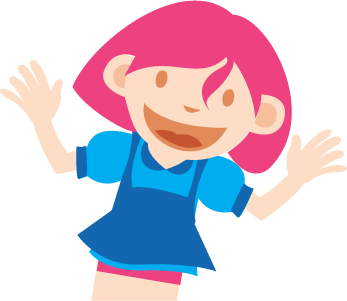
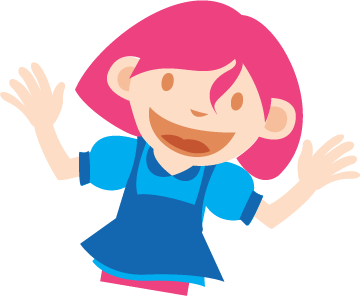
fix: removes overflow x, relative child containers

diff --git a/components/PageFooter.vue b/components/PageFooter.vue
@@ -1,37 +1,38 @@
 <template lang="pug">
-  b-container(fluid).footer-container
+  b-container(fluid)
     .child-container
       b-img.child(fluid src="~/assets/img/child-props/boy-red-shirt.svg")
-    b-row
-      b-col(md="6" sm="12")
-        div.contact
-          h4 Contact Us
-          ul
-            li
-              font-awesome-icon.mr-2.ml-2(:icon="['fas', 'phone-square']" size="2x" target="_blank")
-              h6.d-inline-block Phone: (303) 885-9848
-            li
-              font-awesome-icon.mr-2.ml-2(:icon="['fas', 'fax']" size="2x" target="_blank")
-              h6.d-inline-block Fax: (303) 200-7001
-            li
-              font-awesome-icon.mr-2.ml-2(:icon="['fas', 'at']" size="2x" target="_blank")
-              h6.d-inline-block Email: a.shimkus@peekabootherapy.com
-      b-col(md="6" sm="12")
-        div.footer-nav
-          ul
-            li
-              nuxt-link(to="/") Home
-            li
-              a(href="https://peekabootherapy.com/blog") Blog
-            li
-              router-link(to="/careers") Careers
-            li
-              router-link(to="/contact") Contact
-    b-row
-      b-col(md="4" offset-md="8")
-        h6 Logo and children by Jesey Nicholson
-        h6 Website by Elliot Braem
-    .subtext.text-center ©2018 Peek-a-boo Pediatric Therapy LLC, All Rights Reserved.
+    .footer-container
+      b-row
+        b-col(md="6" sm="12")
+          div.contact
+            h4 Contact Us
+            ul
+              li
+                font-awesome-icon.mr-2.ml-2(:icon="['fas', 'phone-square']" size="2x" target="_blank")
+                h6.d-inline-block Phone: (303) 885-9848
+              li
+                font-awesome-icon.mr-2.ml-2(:icon="['fas', 'fax']" size="2x" target="_blank")
+                h6.d-inline-block Fax: (303) 200-7001
+              li
+                font-awesome-icon.mr-2.ml-2(:icon="['fas', 'at']" size="2x" target="_blank")
+                h6.d-inline-block Email: a.shimkus@peekabootherapy.com
+        b-col(md="6" sm="12")
+          div.footer-nav
+            ul
+              li
+                nuxt-link(to="/") Home
+              li
+                a(href="https://peekabootherapy.com/blog") Blog
+              li
+                router-link(to="/careers") Careers
+              li
+                router-link(to="/contact") Contact
+      b-row
+        b-col(md="4" offset-md="8")
+          h6 Logo and children by Jesey Nicholson
+          h6 Website by Elliot Braem
+      .subtext.text-center ©2018 Peek-a-boo Pediatric Therapy LLC, All Rights Reserved.
 </template>
 
 <style lang="scss" scoped>
@@ -40,14 +41,17 @@ h4 {
   font-family: 'Marker-Felt';
 }
 
+.child-container {
+  position: relative;
+}
+
 .footer-container {
   background-color: #d6efff;
-  margin-top: 200px;
   padding-top: 20px;
 }
 
 .child {
-  top: -220px;
+  top: 50px;
   right: 0px;
   z-index: -10;
   transform: rotate(-20deg);

diff --git a/pages/Rates.vue b/pages/Rates.vue
@@ -20,15 +20,15 @@
 </template>
 
 <style lang="scss" scoped>
-.blue-box-container {
-  padding-top: 200px;
-}
-
 .child {
-  top: -200px;
+  top: 20px;
   left: 0px;
   z-index: -10;
   transform: rotate(20deg);
+}
+
+.child-container {
+  position: relative;
 }
 
 .btn-group-container {
@@ -51,32 +51,3 @@
   text-align: center;
 }
 </style>
-
-// .rates-child
-//   position: relative
-//   width: auto
-//   height: auto
-
-// .rates-child .child
-//   position: absolute
-//   max-height: none
-//   z-index: -10
-//   left: -100px
-//   transform: rotate(25deg)
-
-// // Small devices (landscape phones, 420px and up)
-// @media (min-width: 420px)
-//   .rates h2
-//     padding: 0
-
-//   .rates-child .helper-div
-//     padding-bottom: 180px
-//     width: auto
-
-//   .blue-box
-//     margin: auto
-
-// // Medium devices (tablets, 768px and up)
-// @media (min-width: 768px)
-//   .rates-child .helper-div
-//     padding-bottom: 0px;

diff --git a/pages/Services.vue b/pages/Services.vue
@@ -39,33 +39,17 @@ export default {
 .blue-box-container {
   position: relative;
   text-align: left;
-  padding-top: 200px;
   margin-bottom: 4rem;
+}
+
+.child-container {
+  position: relative;
 }
 
 .child {
   z-index: -10;
-  top: -200px;
+  top: 20px;
   right: 0;
   transform: rotate(-15deg);
-  // Devices smaller than 650px
-  // @media only screen and (max-width: 650px) {
-  //   top: 15px;
-  //   right: -100px;
-  // }
 }
-/* .services-child
-  position: relative
-  max-width: 800px
-  height: auto
-
-.services-child .helper-div
-  margin-bottom: 180px
-  width: auto
-
-.services-child .child
-  position: absolute
-  z-index: -10
-  top: -140px
-  right: 0px */
 </style>

diff --git a/pages/about/index.vue b/pages/about/index.vue
@@ -18,12 +18,12 @@ export default {
 
 <style lang="scss" scoped>
 .child {
-  top: -200px;
+  top: 40px;
   left: 0px;
   z-index: -10;
 }
 
-.padding {
-  padding-bottom: 200px;
+.child-container {
+  position: relative;
 }
 </style>

diff --git a/nuxt.config.js b/nuxt.config.js
@@ -65,11 +65,6 @@ module.exports = {
     routes: getFiles('./assets/files/employee-bios').map(getSlugs)
   },
 
-  router: {
-    mode: 'hash',
-    base: '/dist/'
-  },
-
   /*
   ** Build configuration
   */

diff --git a/layouts/default.vue b/layouts/default.vue
@@ -1,8 +1,10 @@
 <template <template lang="pug">
   div
-    PageHeader
+    no-ssr
+      PageHeader
     nuxt
-    PageFooter
+    no-ssr
+      PageFooter
 </template>
 
 <script>

diff --git a/assets/scss/main.scss b/assets/scss/main.scss
@@ -28,7 +28,6 @@ ul {
 }
 
 .child-container {
-  position: absolute;
   min-height: 250px;
   width: 100%;
 }
